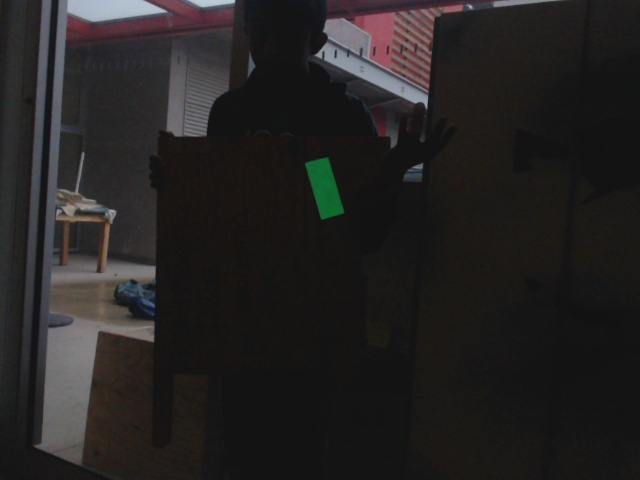
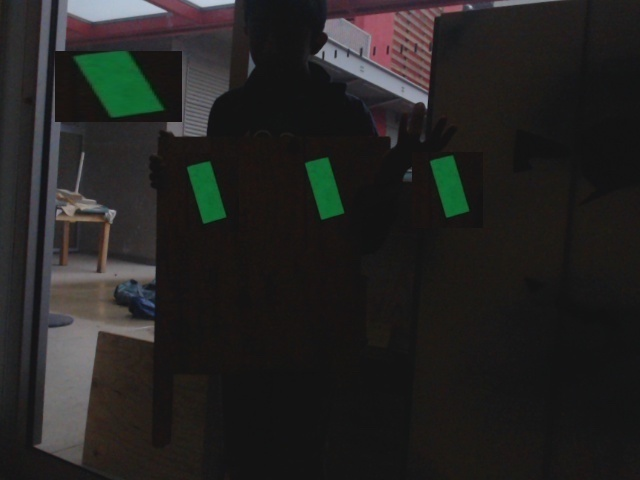
Added comments. Threshold tuning

Changed region(s): [[0.0625, 0.0938, 0.2812, 0.2812], [0.625, 0.3125, 0.75, 0.4688], [0.2812, 0.3125, 0.375, 0.4688]]

diff --git a/vision_cv/ScoringMetric.py b/vision_cv/ScoringMetric.py
@@ -12,7 +12,7 @@ weight_parallelogram_outfunc, weight_rotation_angle_infunc, weight_rotation_angl
     total_score = 0 
 
     
-    bb = sorted(bb, key=lambda x: x[1])[::-1]
+    bb = sorted(bb, key=lambda x: x[1])[::-1] #Sorts bb from top to bottom scores 
     top = bb[0]
     bottom = bb[-1]
     bb = sorted(bb, key=lambda x: x[0])
@@ -24,7 +24,6 @@ weight_parallelogram_outfunc, weight_rotation_angle_infunc, weight_rotation_angl
         return -float("inf")
 
     dimension = (dist2d(top, left), dist2d(top, right)) #Height, width tuple
-
     total_score += score_side_ratio(dimension) * weight_ratio
     total_score += score_area_ratio(dimension, points) * weight_area
     total_score += scoring_parallelogram(points, weight_parallelogram_infunc) * weight_parallelogram_outfunc
@@ -34,12 +33,14 @@ weight_parallelogram_outfunc, weight_rotation_angle_infunc, weight_rotation_angl
     return total_score
 
 def score_side_ratio(dimension):
+    #Side ratio measures ratio of height to width, which is 5.5 (h) / 2 (w) = 2.75
     h,w = dimension
     target_ratio = 2.75
     # 5.5 / 2 = 2.75
     return max((1/(((h/w)-target_ratio)**2 + 1)),(1/(((w/h)-target_ratio)**2 + 1))) # Witch of Agnesi curve.
 
 def score_area_ratio(dimension, points):
+    #Todo: put comment for what this metric does 
     t,r,b,l = points
     h,w = dimension
     target_ratio = 0.5698
@@ -49,6 +50,7 @@ def score_area_ratio(dimension, points):
     return score_area_ratio
 
 def scoring_rectangle(points, weight):
+    #scoring_rectangles measures how rectanglish a contour is 
     angles = []
     for i in range(-2,len(points)-2):
         angles.append(findInsideAngle(points[i], points[i+1], points[i+2]))
@@ -60,26 +62,28 @@ def scoring_rectangle(points, weight):
     return -num/(num+weight) +1
 
 def scoring_parallelogram(points, weight):
+    #scoring_parallelogram measures how parallelogramish a contour is 
     angles = []
     for i in range(-2,len(points)-2): #Negative indices index from the back of the list
         angles.append(findInsideAngle(points[i], points[i+1], points[i+2]))
     if None in angles:
         return False
     angles = [elem/math.pi * 180 for elem in angles]
-    
     sumTotal = 0
     for i in range(2):
         sumTotal += (angles[i+2]-angles[i])**2
     return -sumTotal/(sumTotal+weight) +1
 
 def scoring_rotation_angle(right, bottom, weight):
+    #scoring_rotation_angle measures whether two angles in a contour are 14.5 degrees
+    # If they are then it is a parallelogram
     angle = slope(right, bottom)
     angle = angle/math.pi*180
     num = min(((90-14.5)-angle)**2, (14.5+90-angle)**2)
     return -num/(num+weight)+1
 
 def findInsideAngle(first, main, third):
-    
+    #As the name suggests, findInsideAngle is a function which helps us find the inside angles of a contour 
     try:
         angle1 = slope(main, first)
     except ZeroDivisionError:
@@ -91,17 +95,17 @@ def findInsideAngle(first, main, third):
     return abs(angle2-angle1)
 
 def slope(point1, point2):
+    #Slope of two points in a contour 
     point1 = [float(elem) for elem in point1]
     point2 = [float(elem) for elem in point2]
     m = (point2[1]-point1[1])/(point2[0]-point1[0]+0.0001)
     return math.atan(m)
 
-def contour_area_values(contour, image): # Replace with bounding quadrilateral
+def contour_area_values(contour, image): #Todo: Fix tuning # Replace with bounding quadrilateral
     return 0
-
     RED_WEIGHT = 0.0
     GREEN_WEIGHT = 1.0
     BLUE_WEIGHT = 0.0
     # Find four corners of bounding box, and take top left and bottom right points.
     # Get average pixel values and divide by 255.
-    return np.average(image)
+    return np.average(image) #average rgb threshold of each pixel from the image 

diff --git a/vision_cv/main.py b/vision_cv/main.py
@@ -53,7 +53,10 @@ def findTarget(contours):
 
 def findContours():
     #image = WebCam.getImage()
-    file_obj = Image.open("../vision_cv/TestImages/TEST2.jpg")
+    #file_obj = Image.open("../vision_cv/TestImages/TEST90.jpg")
+    file_obj = Image.open("../vision_cv/TestImages0-1Tape/TEST2.jpg")
+
+    
 
     data = []
     for x in range(640):
@@ -86,14 +89,15 @@ if(__name__ == "__main__"):
         #print("LENGTH OF CONTOURS: {}\n\n".format(len(contours)))
         threshold_contours = 5  # This is the threshold that defines "How good" something needs to be a 
         # contour... Start with high values, and increment down as necessary...
-        weight_ratio = 0
-        weight_area = 0
+        #Assigning weights to each scoring metric 
+        weight_ratio = 3
+        weight_area = 1
         weight_parallelogram_infunc = 1 #Small, more important
         weight_parallelogram_outfunc = 0
         weight_rotation_angle_infunc = 1 #Small, more important
-        weight_rotation_angle_outfunc = 0
+        weight_rotation_angle_outfunc = 1
         weight_contour_area_values = 1 
-        min_threshold = 0
+        min_threshold = 3
         if len(contours) < 1:
             print "No Contours"
             continue 
